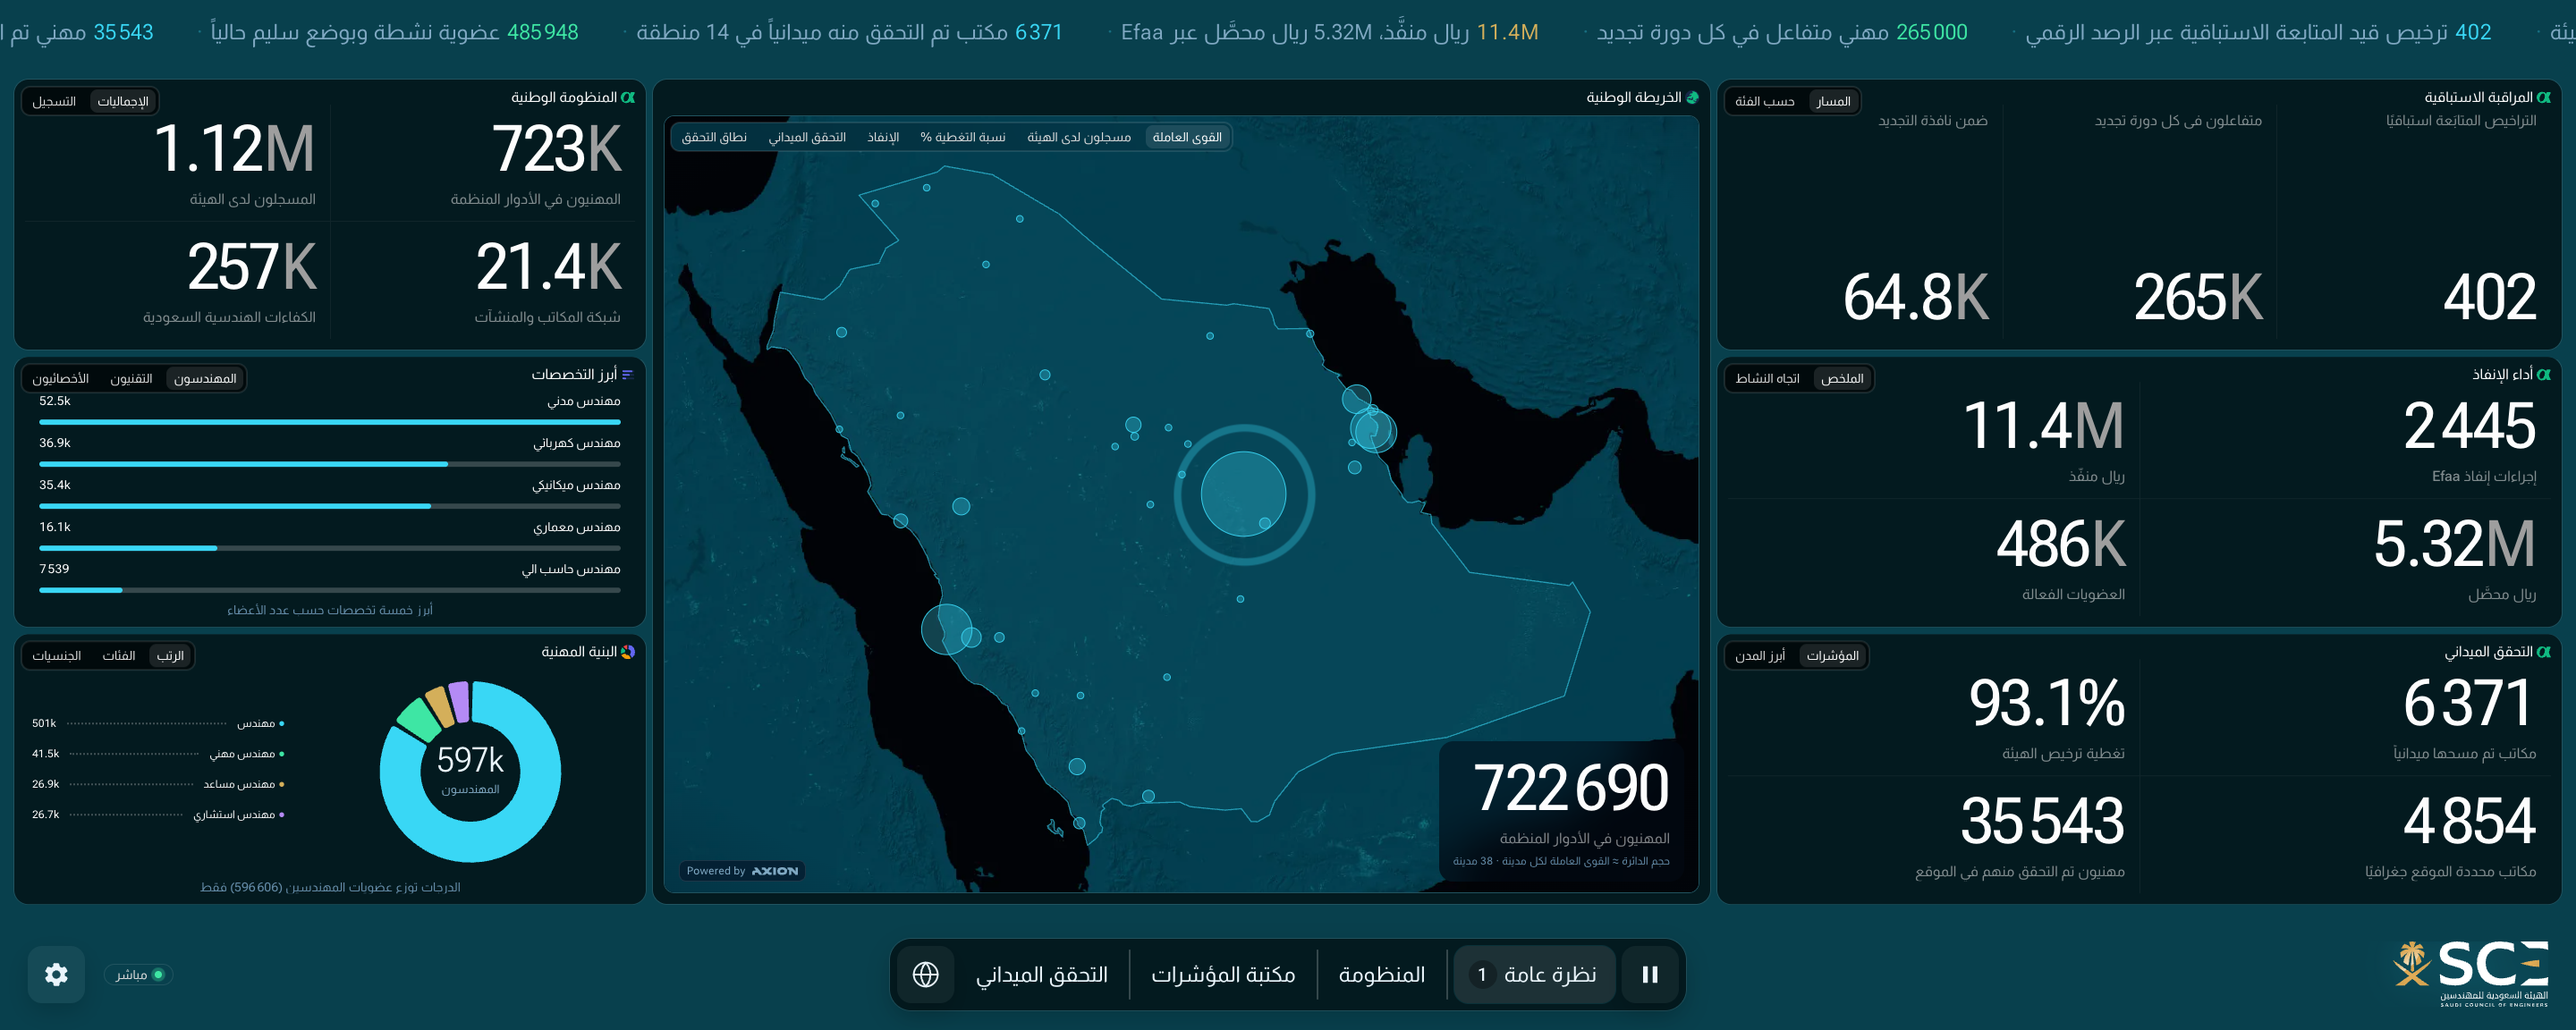
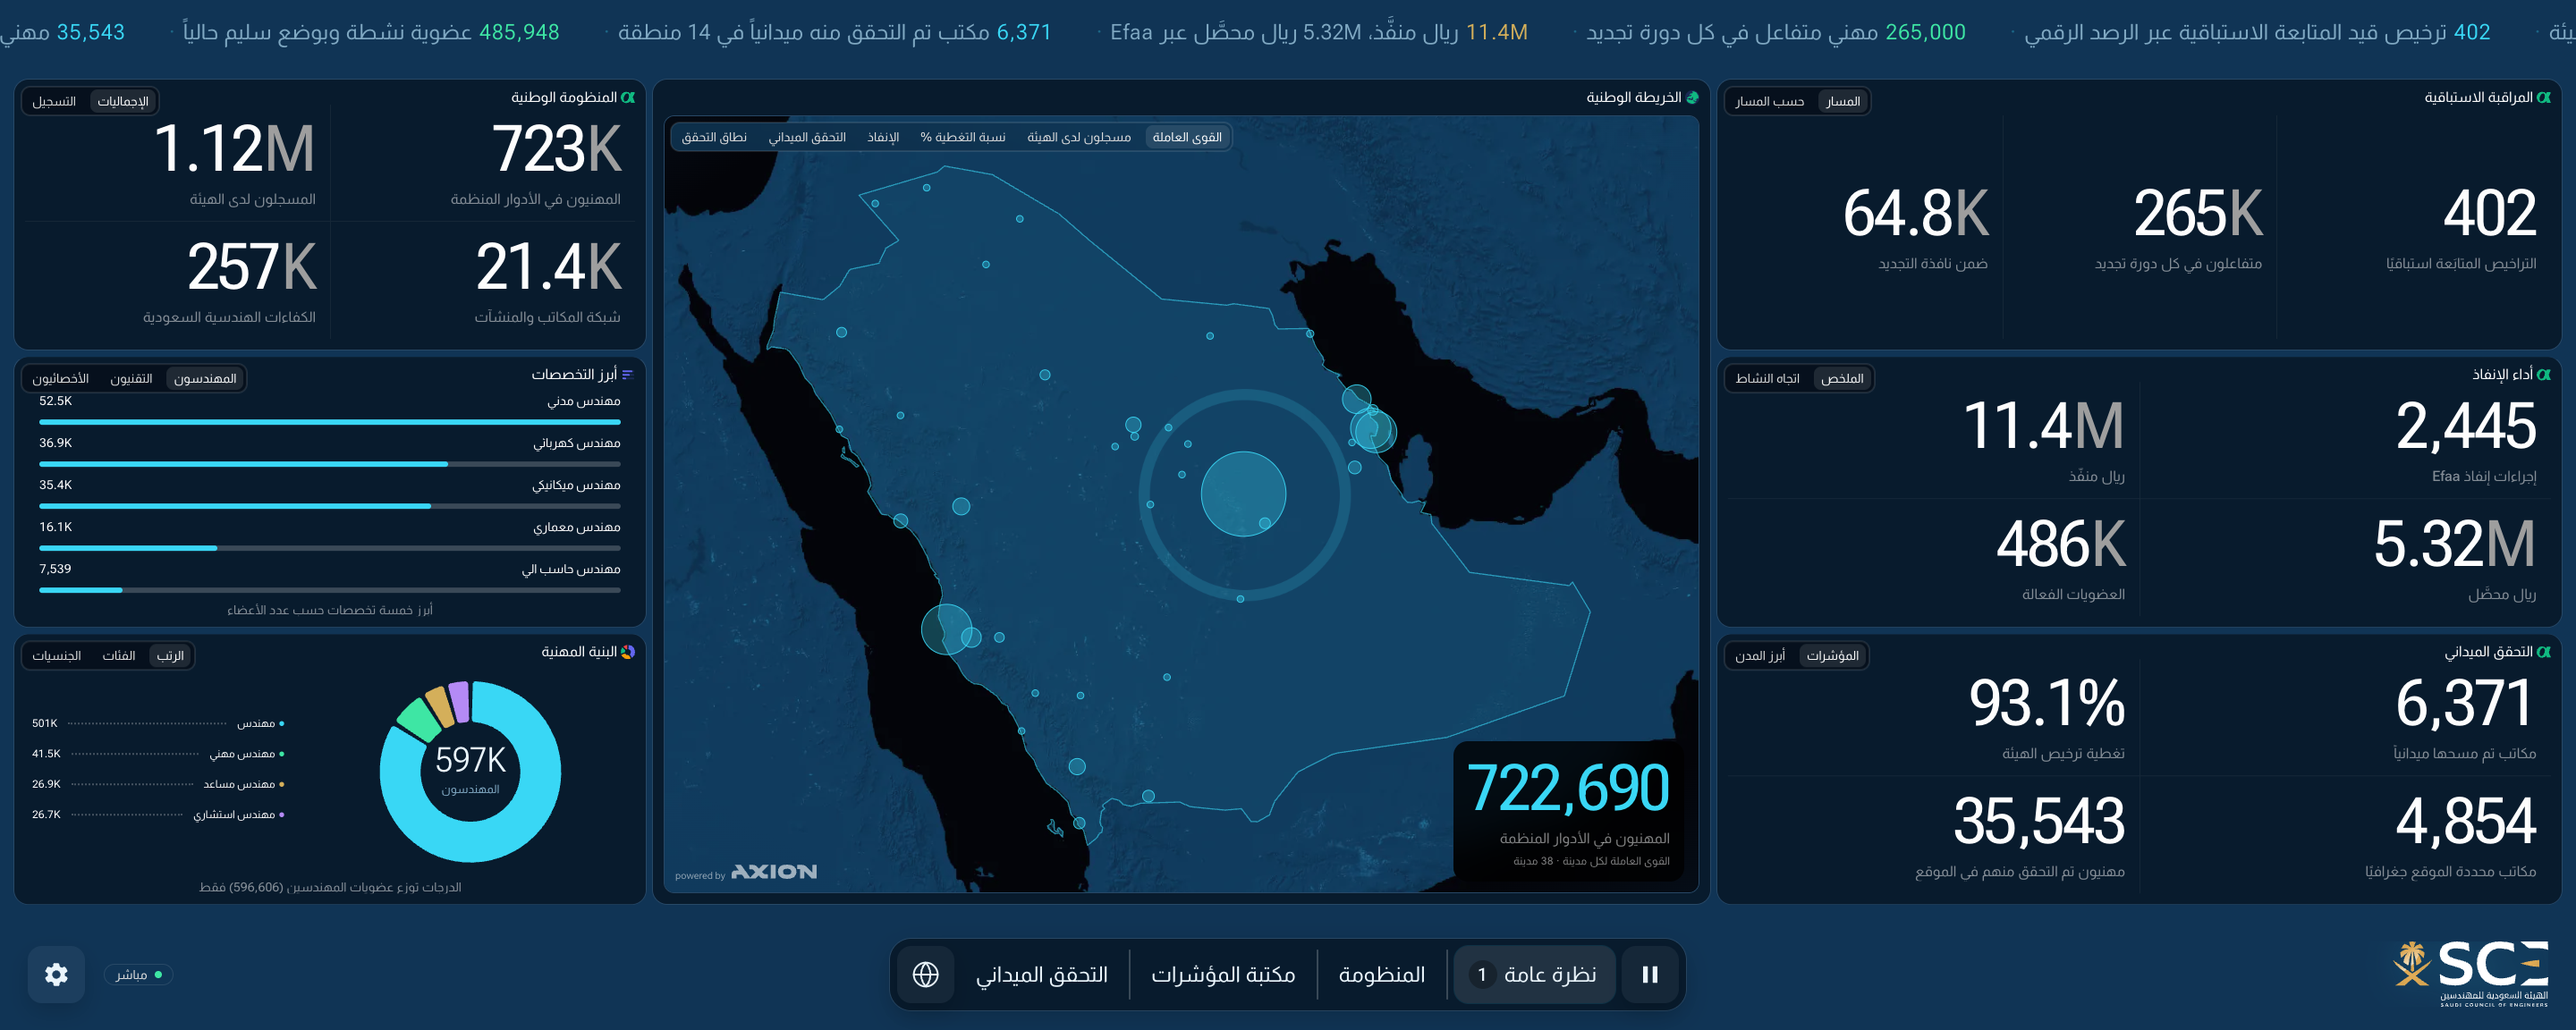
Comma separators, purple default, and a splash-topped autoplay loop
SCE's review raised the number punctuation and the KPI tile order; the
autoplay fixes came out of testing those.

Numbers. Thousands are separated with a comma instead of the narrow
no-break space, at the client's request. Like U+202F and unlike a plain
space it is not a line-break opportunity, so a big tile still cannot wrap
mid-number. Decimals were already a period. The compact() and
compactSplit() unit tables disagreed on the case of the k, so one board
showed "597k" in a donut beside "265K" on a tile; both are uppercase now.
The 10,000 compact threshold is deliberately left alone.

Tile order. Proactive monitoring was the only widget in the app passing
labelFirst, so it read caption-then-number against every other tile on
the wall.

Palette. Purple is the stand's ground. index.html stamps it on <html> as
well, because shell.js runs at the foot of the body and the splash was
painting the default green for a frame first.

Autoplay. Two faults, and a third found while fixing them:

- start() reset slideStartedAt but not sceneStartedAt, so a board coming
  back from the cover had already spent the cover's dwell and stepped its
  scene the moment it appeared. Invisible on first load, where show(0)
  sets both; every later handover charged the splash's seconds to the
  board behind it.
- advance() wrapped straight from the last board into the first. The show
  is a loop whose top is the cover, so the slideshow now hands back to the
[…]

diff --git a/app/assets/js/core/shell.js b/app/assets/js/core/shell.js
@@ -34,7 +34,10 @@
      stored setting, so an unrecognised value in localStorage falls back rather
      than stamping a palette the stylesheet has never heard of. */
   var PALETTES = ['green', 'blue', 'purple'];
-  var PALETTE_DEFAULT = 'green';
+  /* Purple is the stand's ground (SCE review, 2026-08-29). index.html stamps
+     the same value on <html> so the splash never paints the default green for
+     a frame before this file runs at the foot of the body. */
+  var PALETTE_DEFAULT = 'purple';
 
   function loadFlag(key, fallback) {
     try {
@@ -626,8 +629,29 @@
     reveal();
   }
 
-  function advance() {
-    show((current + 1) % BOARDS.length);
+  /* `auto` marks the slideshow's own step, as opposed to ArrowRight.
+
+     The show is a loop whose top is the cover: once the last board has had
+     its slot the wall hands back to the splash and starts over from the
+     first board, rather than wrapping straight into it. A key press is
+     somebody driving the wall, so it still wraps — dropping a presenter onto
+     the attract screen is not what the arrow means — and presentation mode
+     never shows the cover at all. */
+  function advance(auto) {
+    var next = current + 1;
+    if (next >= BOARDS.length) {
+      if (auto && !clean && settings.splashEnabled) {
+        global.Splash.show();
+        /* Rewind behind the cover rather than after it lifts. start() runs
+           180ms into the 620ms recede, so a board change made there plays its
+           exit animation in front of the room and the outgoing board flashes
+           back for a beat before the first one arrives. */
+        show(0);
+        return;
+      }
+      next = 0;
+    }
+    show(next);
   }
 
   /* --- Slideshow --- */
@@ -749,7 +773,7 @@
     if (current >= 0 && navFills[current]) {
       setNavFill(navFills[current], Math.min(1, elapsed / slideMs));
     }
-    if (elapsed >= slideMs) advance();
+    if (elapsed >= slideMs) advance(true);
   }
 
   /* --- Ticker ---
@@ -987,16 +1011,25 @@
   }
 
   function start() {
-    if (current < 0) show(0);
+    /* The cover is the top of the loop, so leaving it always hands back to
+       the first board and to that board's first scene, however far the cycle
+       had got when the splash came up. */
+    if (current !== 0) show(0);
     else {
+      if (boards[0].sceneCount > 1) boards[0].setScene(0);
       measure();
-      Motion.enter(boards[current].surface);
+      Motion.enter(boards[0].surface);
     }
     // Leaving the splash is not board interaction: the first board runs its
     // normal slot rather than being held.
     lastInteraction = Date.now();
     holdUntil = 0;
+    /* Both clocks, not just the slide one. The scene clock used to survive
+       the cover, so a board coming back from it had already spent the
+       cover's dwell and stepped its scene the moment it appeared — the
+       splash's seconds were being charged to the board behind it. */
     slideStartedAt = lastInteraction;
+    sceneStartedAt = lastInteraction;
     setPlaying(settings.autoplay);
   }
 

diff --git a/app/assets/js/core/format.js b/app/assets/js/core/format.js
@@ -7,10 +7,13 @@
   'use strict';
 
   var MINUS = '\u2212';
-  /* Narrow no-break space in place of the comma: reads as a digit grouping
-     without implying a decimal (some locales use comma there), and it can't
-     become a line-break point the way a plain space could on a big tile. */
-  var GROUP_SEP = '\u202f';
+  /* Comma, at SCE's request (LEAP review, 2026-08-29). The earlier narrow
+     no-break space avoided implying a decimal in locales that use a comma
+     there, but the boards render Western digits in both languages and the
+     client reads the comma as the grouping mark. Like U+202F and unlike a
+     plain space, it is not a line-break opportunity, so a big tile still
+     cannot wrap mid-number. */
+  var GROUP_SEP = ',';
 
   function degroup(s) {
     return s.replace(/,/g, GROUP_SEP);
@@ -46,10 +49,13 @@
       var rounded = abs < 100 ? Math.round(n * 10) / 10 : Math.round(n);
       return withMinus(degroup(rounded.toLocaleString('en-US')));
     }
+    /* Uppercase, matching compactSplit below: these two used to disagree on
+       the k, and one board showed "597k" in a donut next to "265K" on a
+       tile. */
     var units = [
       [1e9, 'B'],
       [1e6, 'M'],
-      [1e3, 'k'],
+      [1e3, 'K'],
     ];
     for (var i = 0; i < units.length; i++) {
       if (abs >= units[i][0]) {

diff --git a/app/assets/js/boards/bigscreen.js b/app/assets/js/boards/bigscreen.js
@@ -266,9 +266,9 @@
             chart: 'indicator',
             cols: 3,
             items: [
-              { value: Data.head.proact, format: 'grouped', label: t('m.proact'), labelFirst: true },
-              { value: Data.head.renewengage, format: 'compact', label: t('m.engage'), labelFirst: true },
-              { value: Data.register.near, format: 'compact', label: t('m.near'), labelFirst: true },
+              { value: Data.head.proact, format: 'grouped', label: t('m.proact') },
+              { value: Data.head.renewengage, format: 'compact', label: t('m.engage') },
+              { value: Data.register.near, format: 'compact', label: t('m.near') },
             ],
           });
         },

diff --git a/app/index.html b/app/index.html
@@ -1,5 +1,5 @@
 <!doctype html>
-<html lang="en" dir="ltr">
+<html lang="en" dir="ltr" data-palette="purple">
   <head>
     <meta charset="utf-8" />
     <meta name="viewport" content="width=device-width, initial-scale=1, viewport-fit=cover" />
